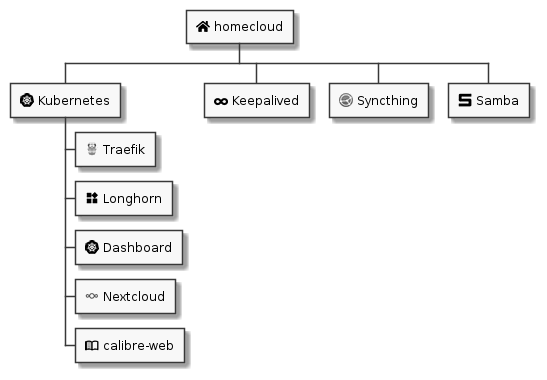
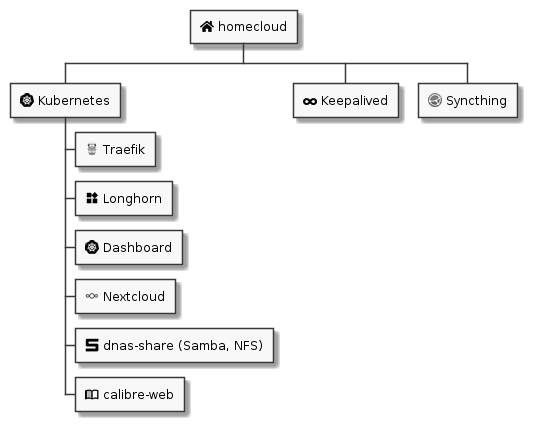
deploy: 0a583721f49dbb85a96031bebb10f60c4e79b701

Changed region(s): [[0.0, 0.0, 0.9869, 0.9842]]

diff --git a/index.html b/index.html
@@ -444,7 +444,7 @@ body.book #toc,body.book #preamble,body.book h1.sect0,body.book .sect1>h2{page-b
 <h1>homecloud : a cloud at home with Kubernetes and Syncthing</h1>
 <div class="details">
 <span id="author" class="author">Thibault Morin</span><br>
-<span id="revdate">2021-03-11</span>
+<span id="revdate">2021-03-29</span>
 </div>
 <div id="toc" class="toc2">
 <div id="toctitle">Table of Contents</div>
@@ -474,8 +474,8 @@ body.book #toc,body.book #preamble,body.book h1.sect0,body.book .sect1>h2{page-b
 <li><a href="#_the_common_configurations">The common configurations</a></li>
 <li><a href="#role_k3s_service">The k3s service</a></li>
 <li><a href="#_the_keepalived_service">The Keepalived service</a></li>
-<li><a href="#_the_dnas_service">The dnas service</a></li>
 <li><a href="#_the_kubernetes_deployment_manifests">The Kubernetes deployment manifests</a></li>
+<li><a href="#_the_dnas_integration">The dnas integration</a></li>
 <li><a href="#_the_ansible_inventory">The Ansible inventory</a></li>
 <li><a href="#_the_role_variables">The role variables</a></li>
 <li><a href="#_the_common_variables">The common variables</a></li>
@@ -587,7 +587,7 @@ The used operating system is based on Debian: Armbian <a href="#abn">[abn]</a>.<
 <div class="title">Figure 2. The provided user services of the cluster</div>
 </div>
 <div class="paragraph">
-<p>The Nextcloud and calibre-web can fetch data from the Samba share as any other compatible clients within the home network.</p>
+<p>Nextcloud and calibre-web can fetch data from the Samba share as any other compatible clients within the home network.</p>
 </div>
 <div class="paragraph">
 <p>However, to properly operate the above listed services, two hosting strategies are highly emphasis: containerized workloads and container orchestration.</p>
@@ -662,35 +662,19 @@ Some building blocks are parts of the virtual world whereas others to the physic
 </div>
 <div class="sect2">
 <h3 id="_the_container_engine_and_orchestrator">The container engine and orchestrator</h3>
-<div class="admonitionblock note">
-<table>
-<tr>
-<td class="icon">
-<div class="title">Note</div>
-</td>
-<td class="content">
 <div class="paragraph">
-<p><span class="yellow-background">TODO</span></p>
+<p>The containerization of workloads as well as their management are handled by many technologies.
+Nevertheless, an effort of standardization emerged from the industry which led to the creation of the Cloud Native Computing Foundation (CNCF) [cncf].
+The CNCF hosts many components, some of them are the first building blocks of the <code>homecloud</code> stack.</p>
 </div>
 <div class="paragraph">
-<p>Introduce the following items:</p>
+<p>The first is <code>containerd</code> <a href="#cntd">[cntd]</a>. It&#8217;s the container engine which handles the containerization of workloads.
+The second one is <code>kubernetes</code> <a href="#k8s">[k8s]</a>. It&#8217;s the container orchestrator managing the cluster of <code>containerd</code> instances.
+Finally, the last one is <code>k3s</code> <a href="#k3s">[k3s]</a>. It&#8217;s a distribution of <code>kubernetes</code> dedicated of IoT or other cloudless native environments &#8230;&#8203; like <code>homecloud</code>.</p>
 </div>
-<div class="ulist">
-<ul>
-<li>
-<p>containerd</p>
-</li>
-<li>
-<p>kubernetes</p>
-</li>
-<li>
-<p>k3s</p>
-</li>
-</ul>
-</div>
-</td>
-</tr>
-</table>
+<div class="paragraph">
+<p>The orchestration of containerized workloads is a good starting point.
+However, many other concerns have to be tackled, the next one is about availability.</p>
 </div>
 </div>
 <div class="sect2">
@@ -1021,14 +1005,6 @@ The inventory groups of the hosts define the role.</p>
 </div>
 </div>
 <div class="sect2">
-<h3 id="_the_dnas_service">The dnas service</h3>
-<div class="paragraph">
-<p>The Ansible role <code>service_dnas</code> installs and configures Syncthing, Samba and NFS on the host.
-It manages the mount of the block device which contains the files to expose over Syncthing and Samba.
-It manages also basic configuration of Syncthing and Samba related to credentials.</p>
-</div>
-</div>
-<div class="sect2">
 <h3 id="_the_kubernetes_deployment_manifests">The Kubernetes deployment manifests</h3>
 <div class="paragraph">
 <p>There is a dedicated Ansible role by manifests.
@@ -1037,7 +1013,13 @@ Each role provides the definition of the manifest as well as its deployment proc
 <div class="ulist">
 <ul>
 <li>
+<p><code>k3s_csi_driver_smb</code> a CSI plugin to mount Samba shares.</p>
+</li>
+<li>
 <p><code>k3s_dashboard</code> deploys the Kubernetes Dashboard.</p>
+</li>
+<li>
+<p><code>k3s_dnas</code> deploys the ingress controller: Traefik.</p>
 </li>
 <li>
 <p><code>k3s_longhorn</code> deploys the distributed block storage system: Longhorn.</p>
@@ -1046,6 +1028,14 @@ Each role provides the definition of the manifest as well as its deployment proc
 <p><code>k3s_traefik</code> deploys the ingress controller: Traefik.</p>
 </li>
 </ul>
+</div>
+</div>
+<div class="sect2">
+<h3 id="_the_dnas_integration">The dnas integration</h3>
+<div class="paragraph">
+<p>The Ansible role <code>k3s_dnas</code> installs and configures Syncthing, Samba and NFS.
+It manages the mount of the block device which contains the files to expose over Syncthing, Samba and NFS.
+It manages also the basic configuration of Syncthing, Samba and NFS like credentials.</p>
 </div>
 </div>
 <div class="sect2">
@@ -1128,7 +1118,7 @@ A kind of cloud able to host private data and provide services all around the wo
 <div class="sectionbody">
 <div class="paragraph">
 <p>The purpose of <em>dnas</em> is to expose private files over the local network like a usual <a href="#g_nas">NAS</a>  but also from Internet.
-Samba provides remote accesses from the local network.
+Samba and NFS provide remote accesses from the local network.
 On the other side, Syncthing brings the decentralized part with its peer-to-peer replication protocol over the local network and Internet.</p>
 </div>
 <div class="imageblock">
@@ -1138,7 +1128,7 @@ On the other side, Syncthing brings the decentralized part with its peer-to-peer
 <div class="title">Figure 5. The dnas overview</div>
 </div>
 <div class="paragraph">
-<p>The same disk is <em>opened</em> to the internal network as a Samba share.
+<p>The same disk is <em>opened</em> to the internal network as a Samba/NFS share.
 The Syncthing service replicates data to the external SSD Disk.</p>
 </div>
 </div>
@@ -1331,10 +1321,19 @@ NAS is a hard drive attached to a network, used for storage and accessed through
 <p><a id="caw"></a>[caw] calibre-web <a href="https://github.com/janeczku/calibre-web" class="bare">https://github.com/janeczku/calibre-web</a></p>
 </li>
 <li>
+<p><a id="cncf"></a>[cncf] Cloud Native Computing Foundation, <a href="https://www.cncf.io" class="bare">https://www.cncf.io</a></p>
+</li>
+<li>
 <p><a id="cntd"></a>[cntd] Containerd, <a href="https://containerd.io" class="bare">https://containerd.io</a></p>
 </li>
 <li>
 <p><a id="dup"></a>[dup] duplicity, <a href="http://duplicity.nongnu.org" class="bare">http://duplicity.nongnu.org</a></p>
+</li>
+<li>
+<p><a id="k3s"></a>[k3s] k3s, <a href="https://k3s.io" class="bare">https://k3s.io</a></p>
+</li>
+<li>
+<p><a id="k8s"></a>[k8s] Kubernetes, <a href="https://kubernetes.io" class="bare">https://kubernetes.io</a></p>
 </li>
 <li>
 <p><a id="kad"></a>[kad] Keepalived, <a href="https://www.keepalived.org" class="bare">https://www.keepalived.org</a></p>
@@ -1382,7 +1381,7 @@ NAS is a hard drive attached to a network, used for storage and accessed through
 </div>
 <div id="footer">
 <div id="footer-text">
-Last updated 2021-03-17 12:24:57 UTC
+Last updated 2021-03-29 12:33:16 UTC
 </div>
 </div>
 </body>
